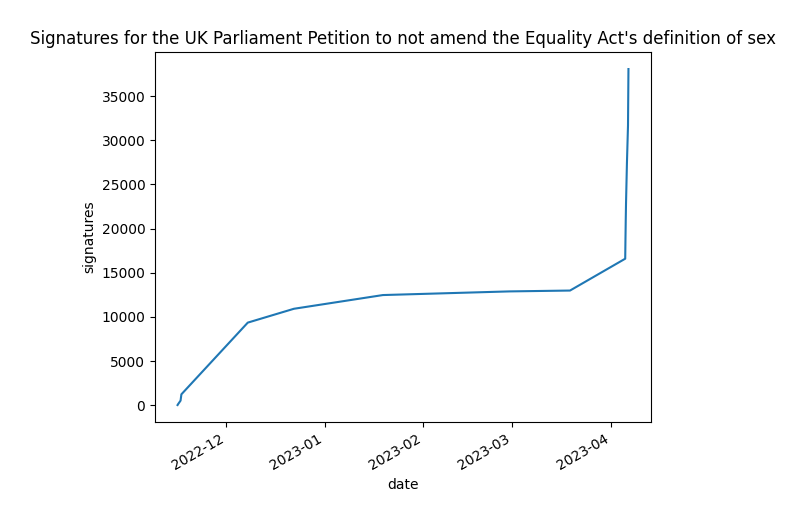
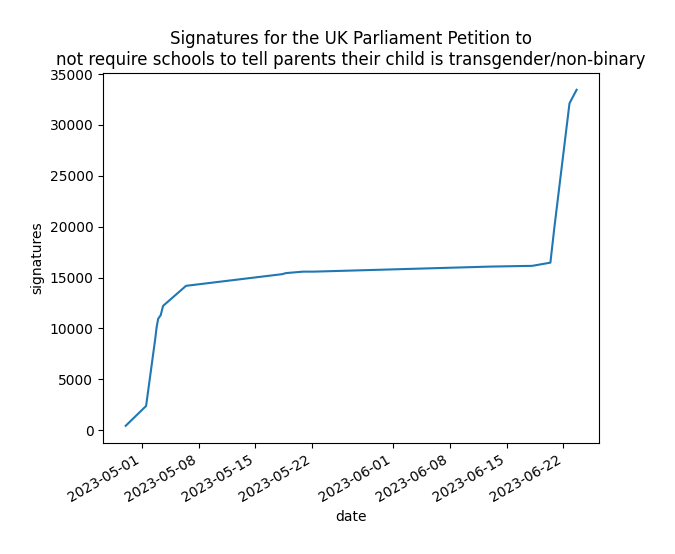
Anti "Section 28 Mk II" petition...  On branch sec_28_mk_ii 	new file:   index.html 	modified:   lgbt_petition.png 	modified:   lgbt_petitions.py 	modified:   petition_template.html 	new file:   section_28_ii.csv

diff --git a/index.html b/index.html
@@ -34,7 +34,7 @@
             and dinosaurs",</a> rather like the US <a href="https://en.wikipedia.org/wiki/Litter_boxes_in_schools_hoax">
             litter boxes</a> hoax.</p>
             <p>data: <a href="section_28_ii.csv">section_28_ii.csv</a></p>
-            <p>Last updated: {{ updated }}.</p>
+            <p>Last updated: Fri Jun 23 15:12:44 2023.</p>
             <p>It is possible to obtain historial petition data via the <a href="http://web.archive.org/">Wayback Machine</a>,
             see the <a href="https://github.com/augeas/UK-parliament-petition-scraper">source-code</a>. 
             This <a href="https://help.pythonanywhere.com/pages/hosting-a-static-site/">static site</a>

diff --git a/lgbt_petitions.py b/lgbt_petitions.py
@@ -51,16 +51,16 @@ def petition_rows(fname, petition_id):
 
 def petition_chart(crawl=True):
     if crawl:
-        petition_df = petition_rows('equality_act.csv', 627984)
+        petition_df = petition_rows('section_28_ii.csv', 636802)
     else:
-        petition_df =  read_petition_csv('equality_act.csv')
+        petition_df =  read_petition_csv('section_28_ii.csv')
     
     plt.figure()
     plt.xticks(rotation=30, ha='right')
     plt.plot(petition_df['timestamp'], petition_df['count'])
     plt.xlabel('date')
     plt.ylabel('signatures')
-    plt.title('''Signatures for the UK Parliament Petition to not amend the Equality Act's definition of sex''')
+    plt.title('''Signatures for the UK Parliament Petition to\nnot require schools to tell parents their child is transgender/non-binary''')
     plt.savefig('lgbt_petition.png', bbox_inches='tight', pad_inches=0.3)
     
 def render_template():
